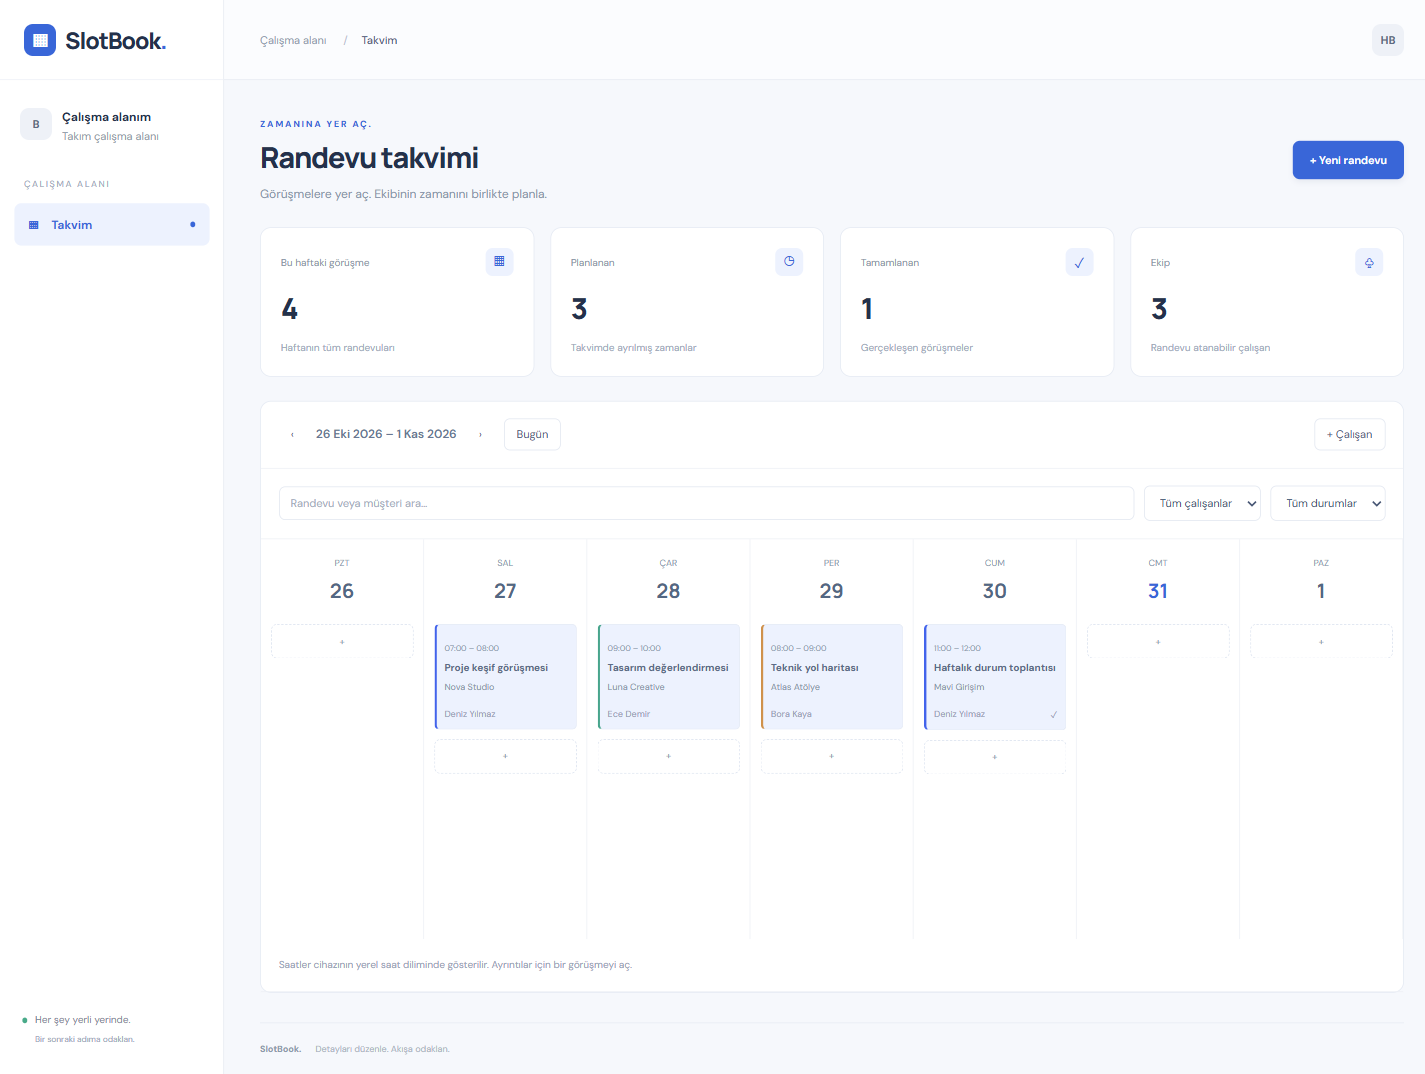
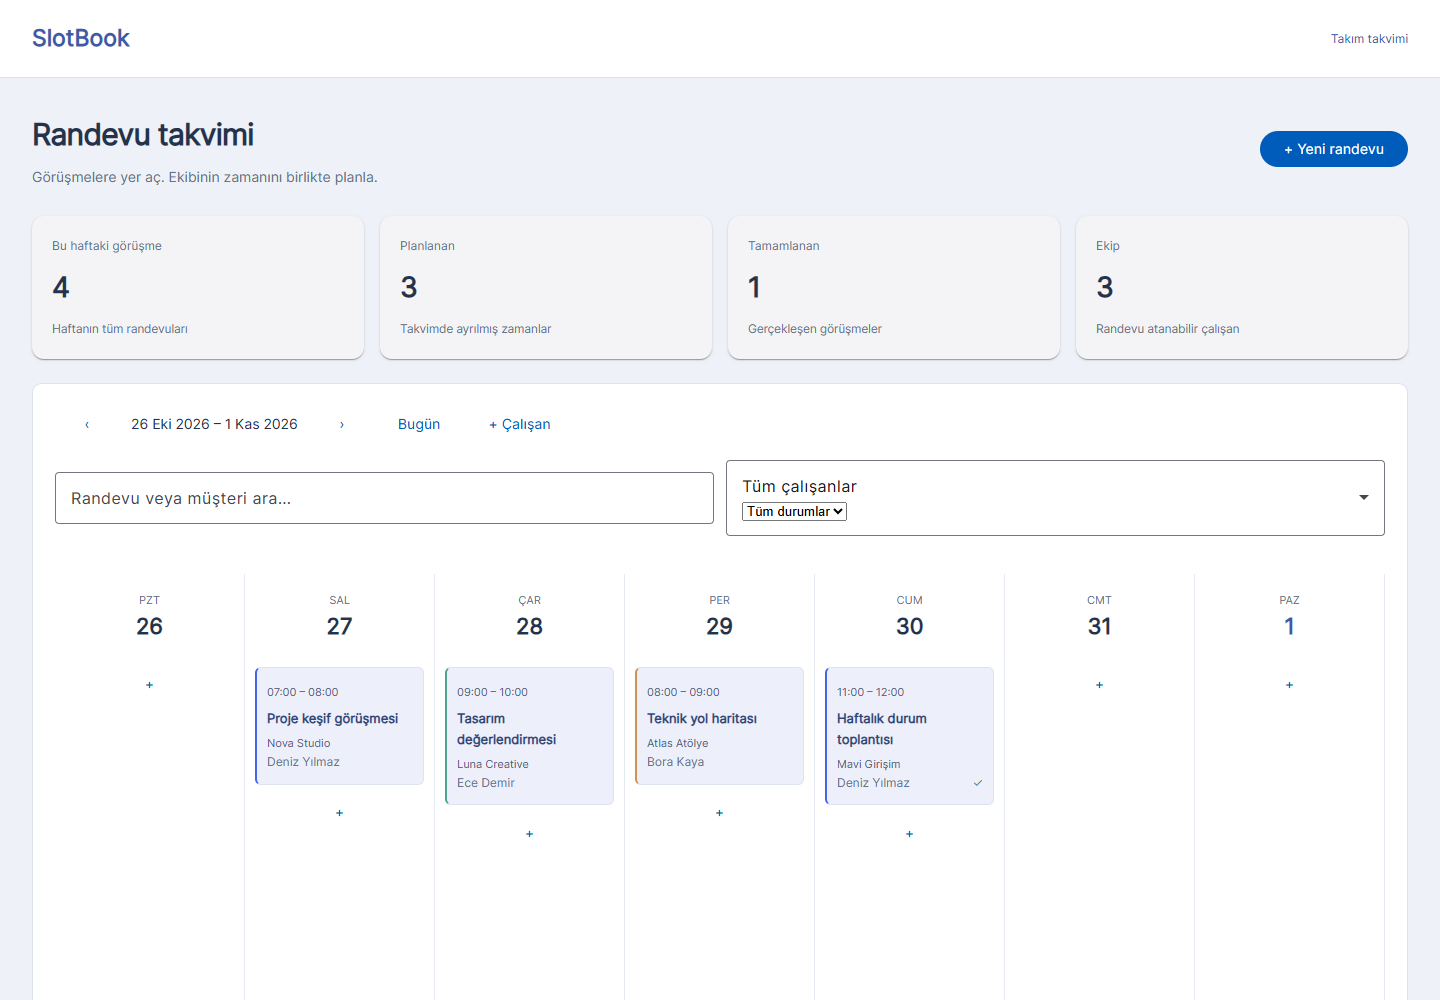
docs(ui): refresh screenshots and document theme boundaries

diff --git a/docs/ui.md b/docs/ui.md
@@ -1,0 +1,21 @@
+# Arayüz sistemi
+
+Angular Material kullanılır. Mavi ve gri tonlar, üst gezinme ve geniş haftalık takvim.
+
+## Tema sınırı
+
+src/theme.scss içindeki mat.theme Sass API’si.
+
+- Bileşen renkleri, tipografisi ve durumları kütüphanenin açık tema API’sinden yönetilir.
+- `src/styles.css` uygulamanın yerleşimini ve iş alanına özel kart/takvim geometrisini tanımlar.
+- Kütüphanenin ürettiği iç sınıflara bağlanan seçiciler, `::ng-deep` ve `!important` kullanılmaz.
+- Takvim randevuları ve sürüklenen Kanban kartları semantik iş alanı kontrolleridir; sabit yüksekliği olan standart aksiyon butonuna zorlanmaz.
+- Formların isimleri, doğrulama alanları ve HTTP sözleşmeleri korunur. Backend katmanları değişmez.
+
+## Kontrol
+
+- Masaüstü: 1440 × 1000; telefon: 390 × 844.
+- Gerçek API ve PostgreSQL ile arayüzden kayıt oluşturma doğrulandı.
+- Form açma/kapatma ve dar ekran taşmaları kontrol edildi.
+
+[Bileşen kütüphanesi belgeleri](https://material.angular.dev)

diff --git a/README.md b/README.md
@@ -8,6 +8,10 @@ Zamanına yer aç. Ekibin için haftalık randevu takvimi.
 
 [Telefon görünümü](docs/mobile.png)
 
+## Arayüz
+
+**Angular Material** · Mavi ve gri tonlar, üst gezinme ve geniş haftalık takvim. Tema sınırları ve doğrulama notları: [Arayüz sistemi](docs/ui.md).
+
 ## Özellikler
 
 - Haftalık takvim, hafta gezinme ve çalışan bazında renkler
